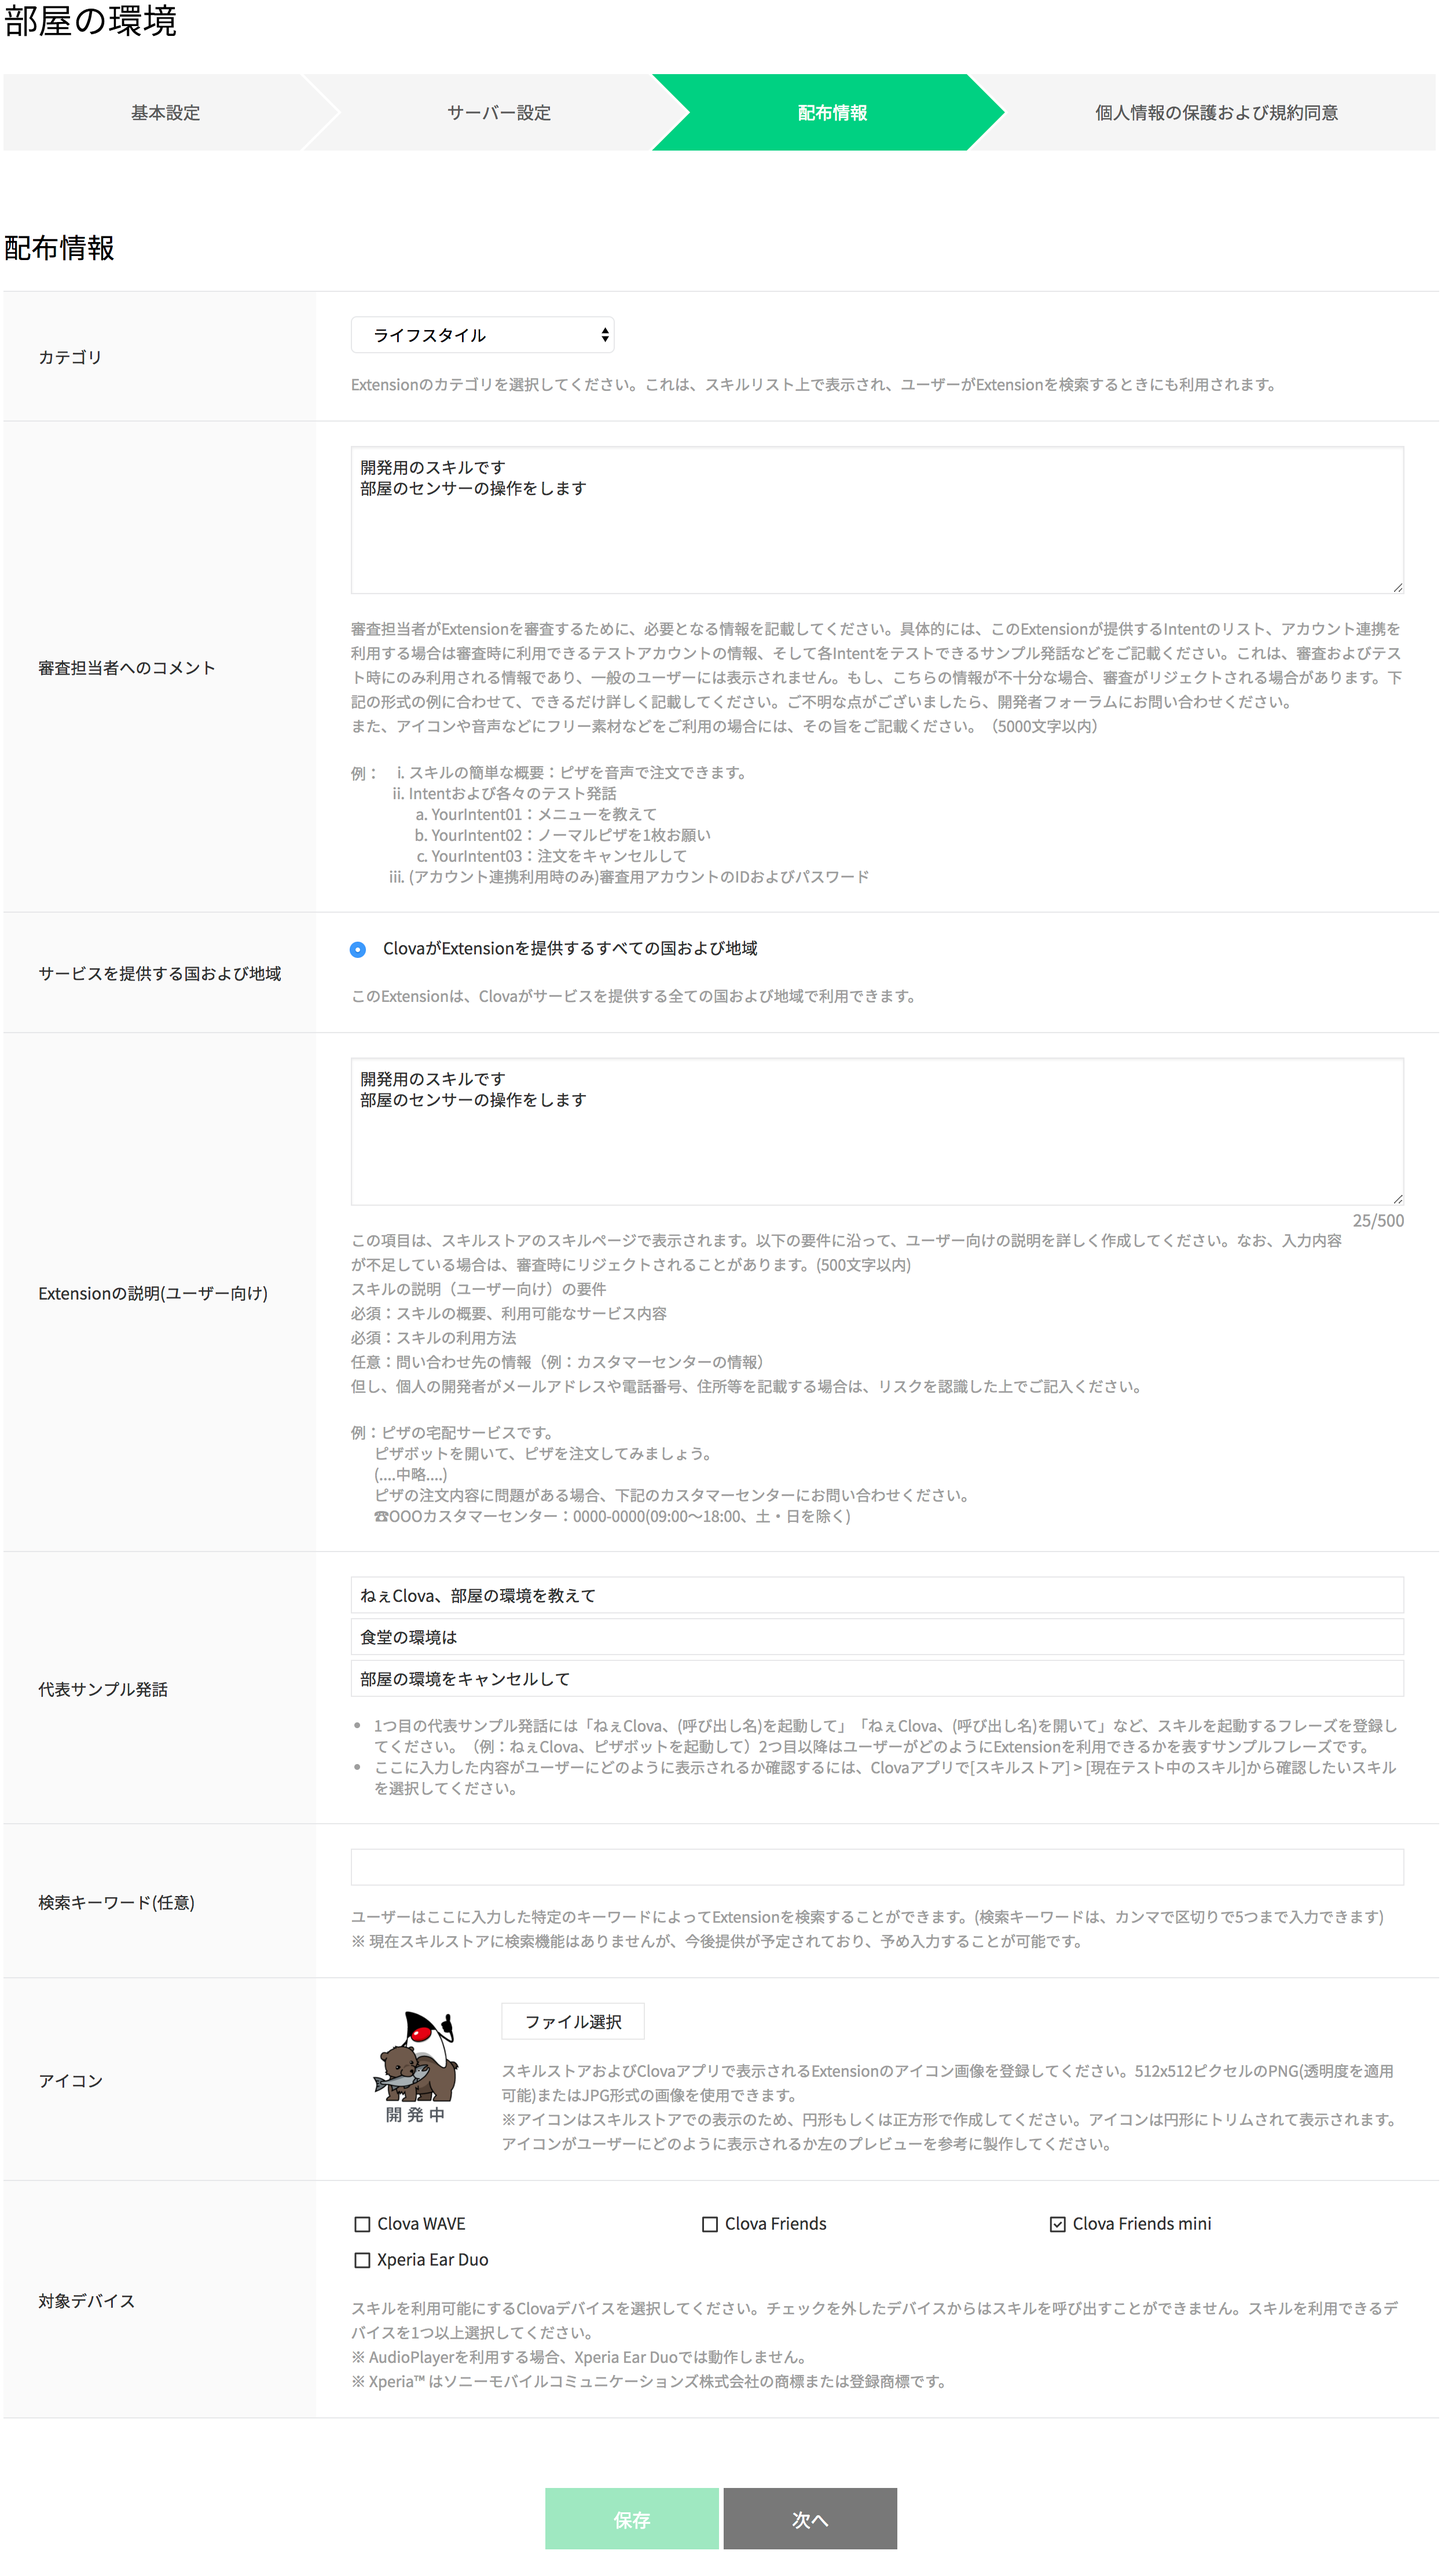
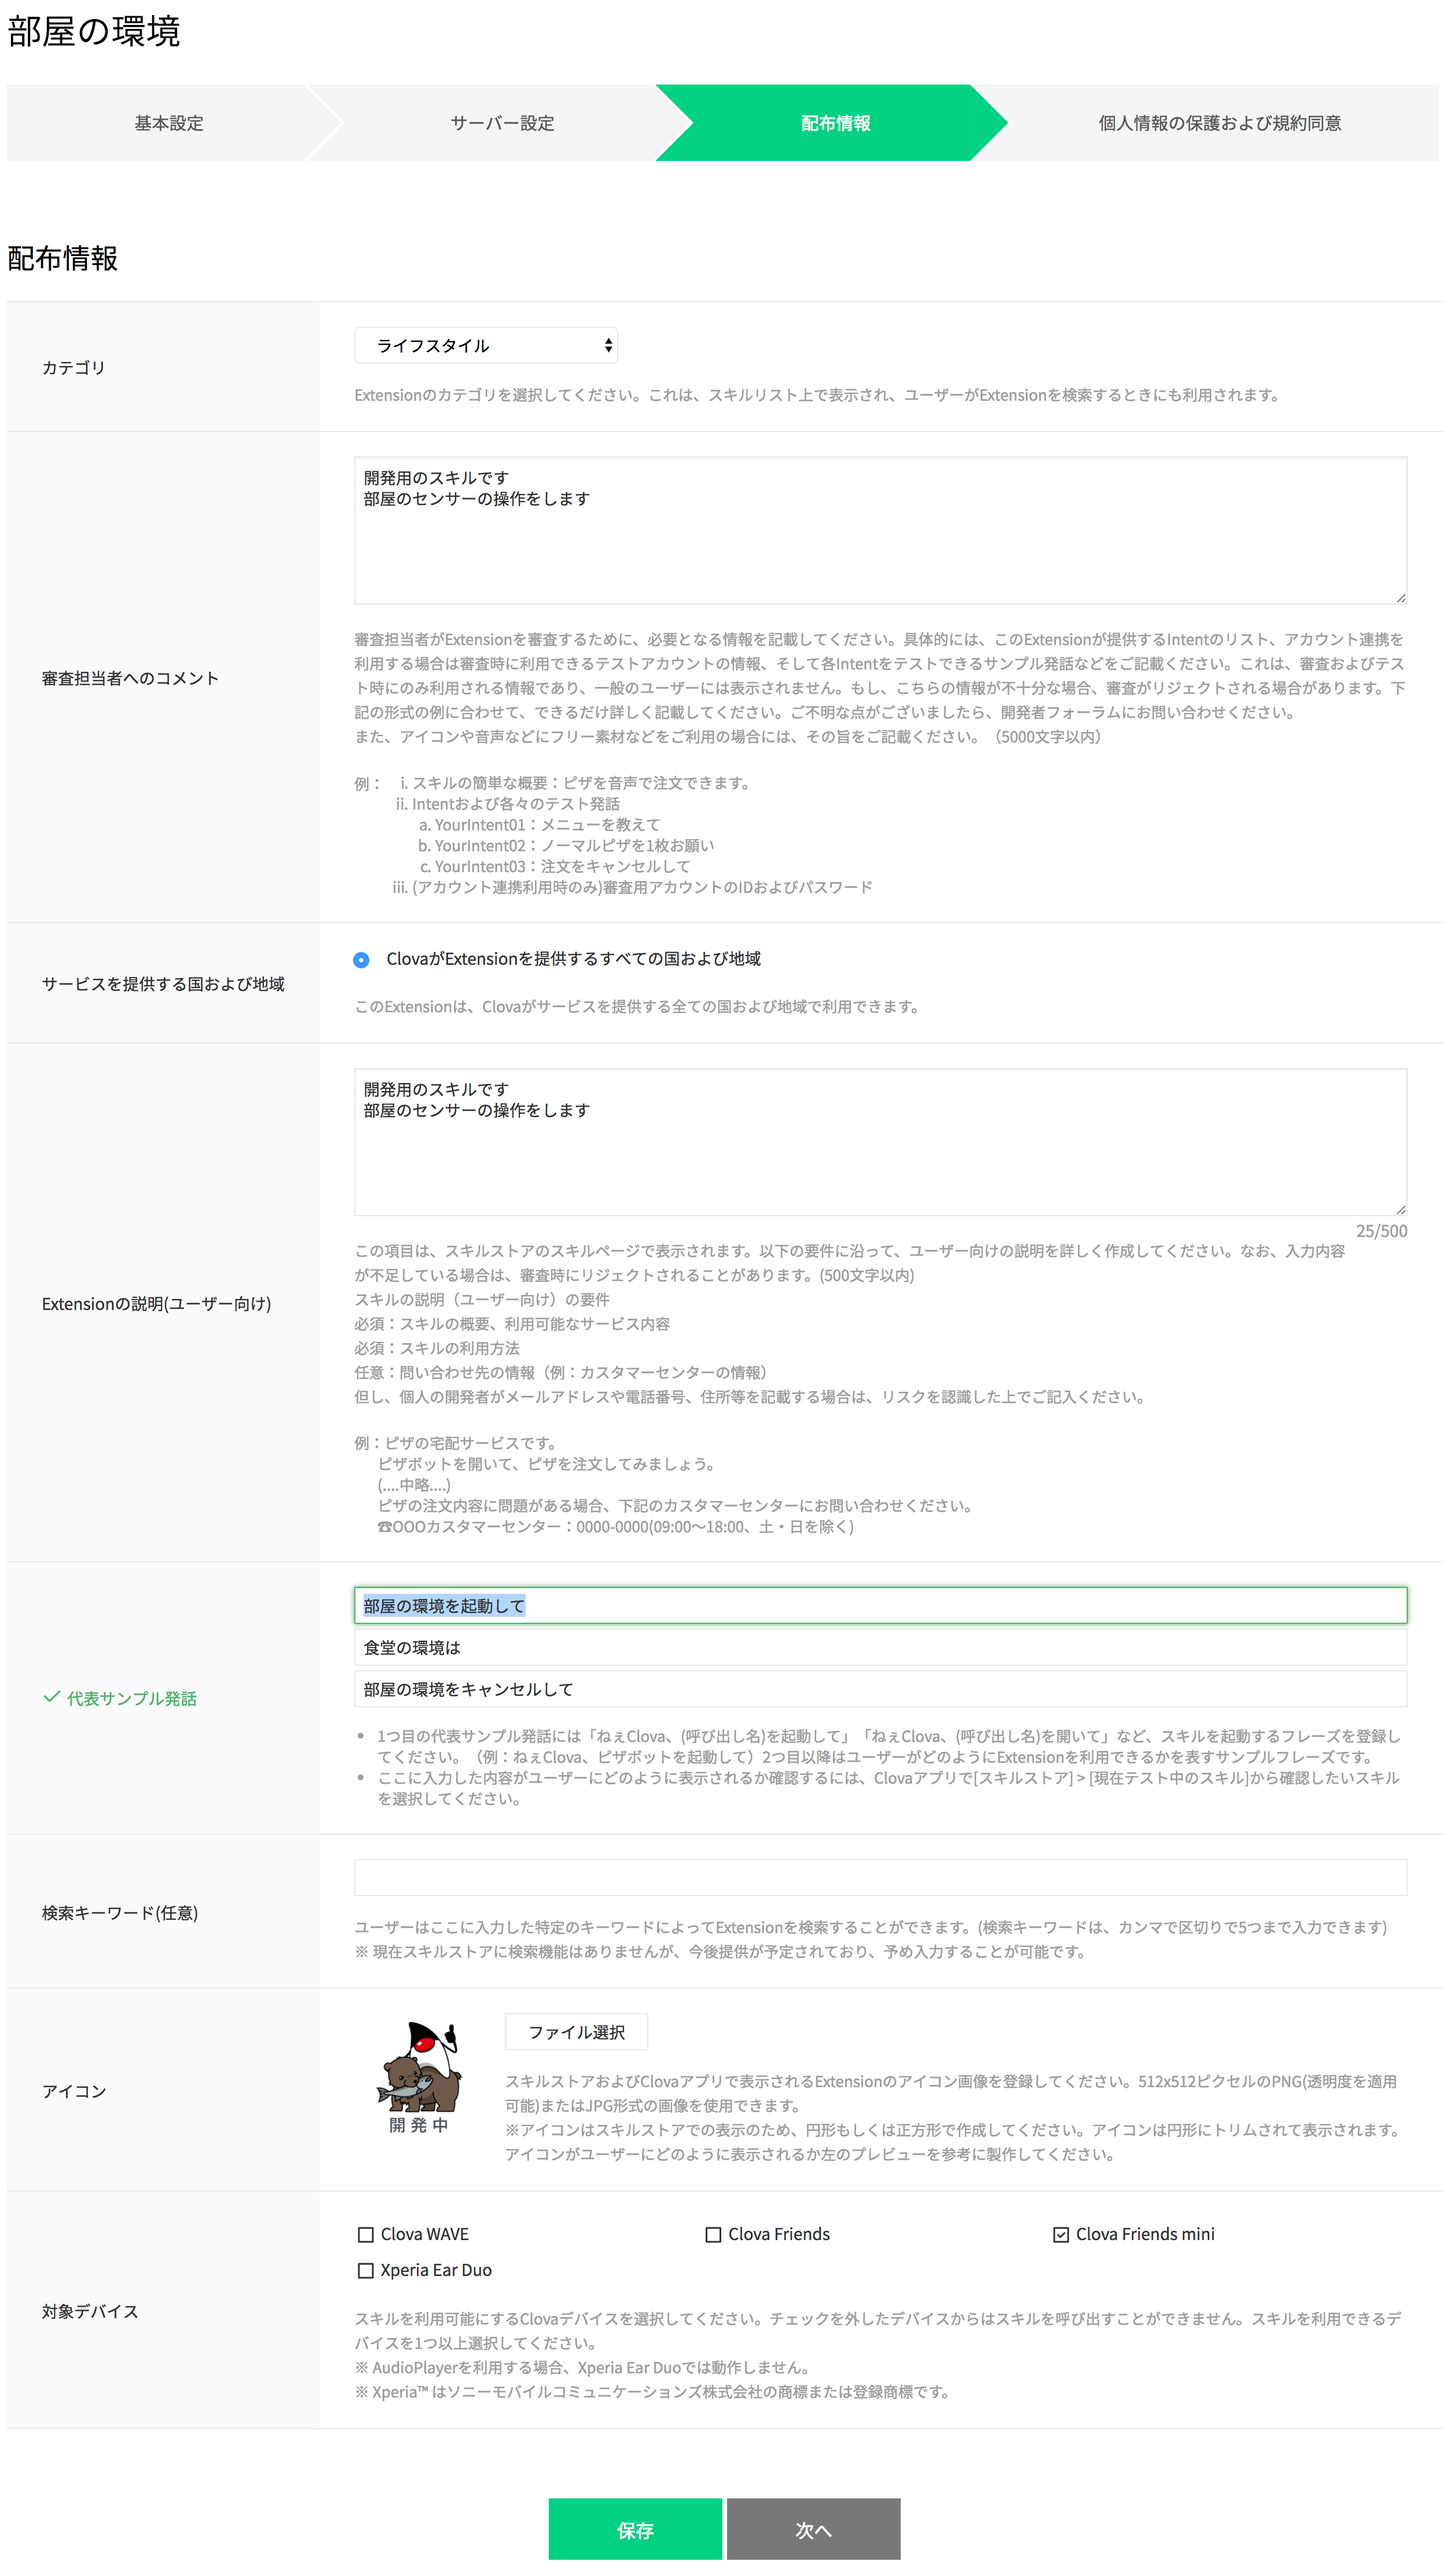
Clovaとの連係方法を追加、リファクタリング

diff --git a/src/main/java/com/example/clova/IntentHandler.java b/src/main/java/com/example/clova/IntentHandler.java
@@ -23,7 +23,7 @@ public class IntentHandler {
   CEKResponse handleLaunch() {
     // Clovaに話させる。スキル(Session)は終了しない
     return CEKResponse.builder()
-      .outputSpeech(OutputSpeech.text("○○の環境を教えて、と聞いてください。"))
+      .outputSpeech(OutputSpeech.text("部屋の名前を使って、どこそこの環境を教えて、と聞いてください。"))
       .shouldEndSession(false)
       .build();
   }
@@ -35,7 +35,7 @@ public class IntentHandler {
     // 聞き取れていなければ 聞き取れませんでした を結果にする
     String outputSpeechText = area
       .map(value -> callbackEnv(value))
-      .orElse("聞き取れませんでした。");
+      .orElse("場所が聞き取れないか、登録されていない場所です。");
 
     // Clovaに callbackEnv の結果を話させる。スキル(Session）は終了しない
     return CEKResponse.builder()
@@ -49,11 +49,11 @@ public class IntentHandler {
     switch (area) {
       case "食堂":
         // 変更箇所, "******" の実際の値はハンズオン時に提示する
-        return replyRoomInfo("b48a373d768e6f54330a236a6b118137");
+        return replyRoomInfo("******");
       case "学生ホール":
         return "二酸化炭素濃度は1500ppm、温度は25度です。";
       default:
-        return "ごめんなさい、その場所は登録されていません。";
+        return "場所が聞き取れないか、登録されていない場所です。";
     }
   }
 

diff --git a/doc/B01/01.md b/doc/B01/01.md
@@ -61,7 +61,7 @@ public class IntentHandler {
   CEKResponse handleLaunch() {
     // Clovaに話させる。スキル(Session)は終了しない
     return CEKResponse.builder()
-      .outputSpeech(OutputSpeech.text("○○の環境を教えて、と聞いてください。"))
+      .outputSpeech(OutputSpeech.text("部屋の名前を使って、どこそこの環境を教えて、と聞いてください。"))
       .shouldEndSession(false)
       .build();
   }
@@ -73,7 +73,7 @@ public class IntentHandler {
     // 聞き取れていなければ 聞き取れませんでした を結果にする
     String outputSpeechText = area
       .map(value -> callbackEnv(value))
-      .orElse("聞き取れませんでした。");
+      .orElse("場所が聞き取れないか、登録されていない場所です。");
 
     // Clovaに callbackEnv の結果を話させる。スキル(Session）は終了しない
     return CEKResponse.builder()
@@ -90,7 +90,7 @@ public class IntentHandler {
       case "学生ホール":
         return "二酸化炭素濃度は1500ppm、温度は25度です。";
       default:
-        return "ごめんなさい、その場所は登録されていません。";
+        return "場所が聞き取れないか、登録されていない場所です。";
     }
   }
 
@@ -138,12 +138,18 @@ Clova Developer Center β のログイン後、もしくはスキルの作成ペ
 
 ### Clovaを使って実行
 
+LINEアプリでスキルストアを開き、「部屋の環境」が表示されていることを確認する。
+
+「部屋の環境」スキルをタップし、「利用開始」をタップする。
+
 - あなた「部屋の環境を起動して」
-- Clova「○○の環境を教えて、と聞いてください」
+- Clova「部屋の名前を使って、どこそこの環境を教えて、と聞いてください」
 - あなた「食堂の環境を教えて」
 - Clova「二酸化炭素濃度は1000ppm、温度は20度です」
 - あなた「学生ホールの環境を教えて」
 - Clova「二酸化炭素濃度は1500ppm、温度は25度です」
+- あなた「体育館の環境を教えて」
+- Clova「場所が聞き取れないか、登録されていない場所です」
 - あなた「キャンセル」
 - Clova「部屋の環境スキルを終了します」
 

diff --git a/doc/B02/01.md b/doc/B02/01.md
@@ -61,7 +61,7 @@ public class IntentHandler {
       case "学生ホール":
         return "二酸化炭素濃度は1500ppm、温度は25度です。";
       default:
-        return "ごめんなさい、その場所は登録されていません。";
+        return "場所が聞き取れないか、登録されていない場所です。";
     }
   }
 
@@ -113,14 +113,15 @@ Clova Developer Center β のログイン後、もしくはスキルの作成ペ
 ### Clovaを使って実行
 
 - あなた「部屋の環境を起動して」
-- Clova「○○の環境を教えて、と聞いてください」
+- Clova「部屋の名前を使って、どこそこの環境を教えて、と聞いてください」
 - あなた「食堂の環境を教えて」
 - Clova「二酸化炭素濃度はXXXXppm、温度はXX度です」(センサーの実測値)
 - あなた「学生ホールの環境を教えて」
 - Clova「二酸化炭素濃度は1500ppm、温度は25度です」
+- あなた「体育館の環境を教えて」
+- Clova「場所が聞き取れないか、登録されていない場所です」
 - あなた「キャンセル」
 - Clova「部屋の環境スキルを終了します」
-
 
 ###　チャレンジ
 

diff --git a/README.md b/README.md
@@ -15,15 +15,15 @@
 
 ## 前準備
 
-- Clovaとアプリの接続
+- [Clovaとアプリの接続](./doc/A00/01.md)
 - [ngrokの準備と起動](./doc/A01/01.md)
 - [Spring Bootのプロジェクトの準備](./doc/A02/01.md)
-- Clovaスキルの作成
-    - [スキルの作成](./doc/A03/01.md)
-    - [対話モデルの作成](./doc/A03/02.md)
 
 ## 基本編
 
+- Clovaスキルの作成
+    - [スキルの作成](./doc/A03/01.md)
+    - [対話モデルの作成](./doc/A03/02.md)
 - [Clovaが応答する](./doc/B01/01.md)
 - [センサーを活用する](./doc/B02/01.md)（**センサー実機が必要**）
 

diff --git a/doc/A03/01.md b/doc/A03/01.md
@@ -88,7 +88,7 @@ LINE Botなどを作成したことがある場合は同じチャンネルを選
 - 審査担当者へのコメント `開発用のスキルです　部屋のセンサーの操作をします`
 - Exceptionの説明 `開発用のスキルです　部屋のセンサーの操作をします`
 - 代表サンプル発話
-    - `ねぇClova、部屋の環境を教えて`
+    - `ねぇClova、部屋の環境を起動して`
     - `食堂の環境は`
     - `部屋の環境をキャンセルして`
 - 検索キーワード `（なし）`

diff --git a/doc/A03/02.md b/doc/A03/02.md
@@ -105,12 +105,13 @@ Clovaは、
 
 ### ビルドとテスト
 
-対話モデルを有効にするためには、登録内容の「ビルド」を行う必要がある。
+対話モデルを変更するには、登録内容の「ビルド」を行う必要がある。
+
+**対話モデルの変更した後に、ビルドを忘れないこと！**
 
 #### ビルド
 
 画面左側にある **ビルド** ボタンを押す。（数分程度の時間がかかる）
-
 
 #### テスト
 

diff --git a/doc/A00/01.md b/doc/A00/01.md
@@ -1,0 +1,13 @@
+## Clovaとアプリの接続
+
+複数人でやるときはひとりずつやった方が端末の混乱は少ない。
+
+1. Clovaを起動する
+1. LINE Clovaアプリを起動する
+1. Clovaとアプリをペアリングする
+1. ネットワークを選択する
+1. 呼び名などの設定はスキップする
+
+-----
+
+[戻る](../../README.md)

diff --git a/doc/A01/01.md b/doc/A01/01.md
@@ -54,4 +54,4 @@ https://xxx.ngrok.io
 
 -----
 
-[戻る](../../README.md)
+[戻る](../README.md)
